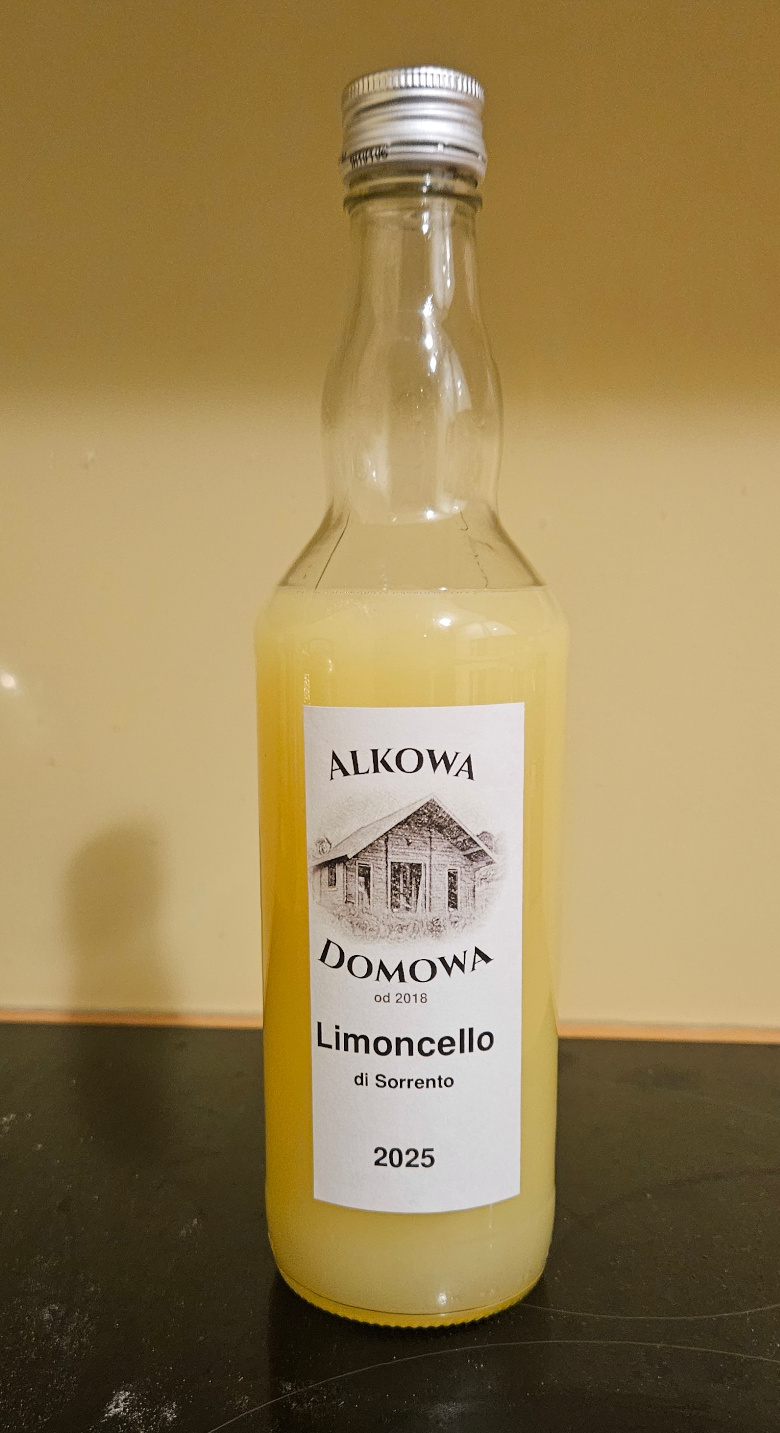
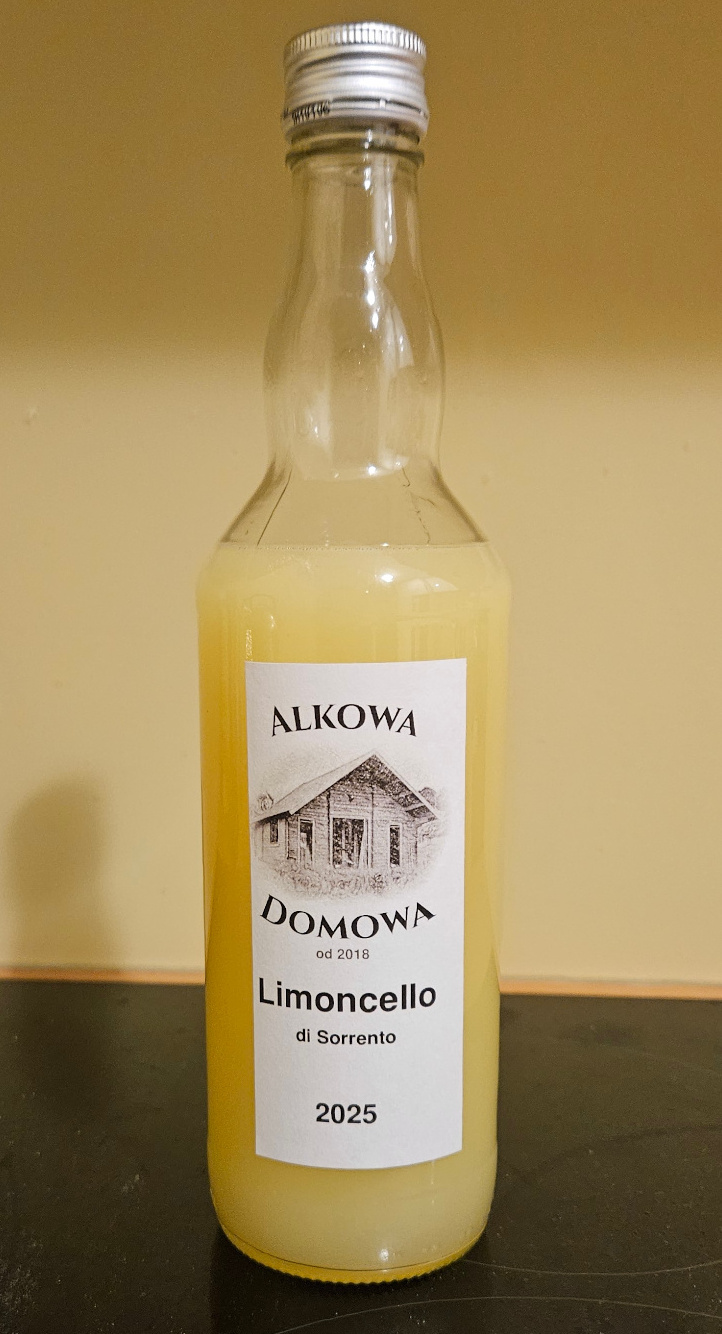
Complete post: Limoncello di Sorrento

diff --git a/content/36-limoncello-z-sorrento/limoncello.md b/content/36-limoncello-z-sorrento/limoncello.md
@@ -1,10 +1,9 @@
 Title: Limoncello z Sorrento
-Date: 2025-05-19 00:00:00
+Date: 2025-06-02 00:00:00
 Category: inne
 Tags: działka
-Summary: limoncello • włoskie limoncello • zdobywanie cytryn • Limoncello di Sorrento
-PreviewImage: limone-di-sorrento.jpg
-Status: draft
+Summary: limoncello • włoskie limoncello • poszukiwanie cytryn • Limoncello di Sorrento
+PreviewImage: butelka.jpg
 
 Miałem wcześniej napisać kilka innych artykułów, ale nastąpiły wydarzenia wymagające natychmiastowego opisania, a dotychczasowo priorytetowe artykuły z zimy powinienem spokojnie dokończyć do jesieni.
 
@@ -18,21 +17,19 @@ Cytryny zwykle były hiszpańskie, bo takie trafiały się w sklepie. Efekt był
 
 Skoro limoncello pochodzi z Włoch, to naturalne jest dla mnie, że w celu uzyskania najlepszego efektu powinienem użyć włoskich cytryn. Najlepsze byłyby z okolic Neapolu. Znane mi odmiany to Ovale di Sorrento oraz Sfusato Amalfitano. Chętnie bym je kupił, ale z moich doświadczeń wynika, że stan magazynowy w polskich sklepach z reguły wynosi zero. Raz udało mi się wypatrzyć cytryny z Amalfi na Allegro, ale byłem wtedy przytłoczony tłoczeniem innych owoców, więc odłożyłem decyzję o zakupie o dwa dni, w ciągu których zdążyły zniknąć z oferty.
 
-![cytryny-na-allegro.jpg]({attach}cytryny-na-allegro.jpg)
+![Oferta z Allegro]({attach}cytryny-na-allegro.jpg)
 
 Dlatego też w głowie mojej zakiełkowały rozwiązania alternatywne.
 
 # Po cytryny
 
-Dotychczasowe wieloletnie doświadczenie w chodzeniu po bułki postanowiłem przekuć na grunt cytrynowy. Jako że cytryny z reguły nie rosną w Polsce (w szczególności te włoskie), to konieczna okazała się wizyta w tym kraju. Kilka lat temu wybrałem się zatem do Włoch, a jednym z punktów był Neapol. Po wizycie w Pompejach postanowiłem pojechać dalej trasą kolejową na południe, by dotrzeć do Sorrento i tam mieć już pewność zakupienia miejscowych cytryn. Wsiadłem do pociągu, choć zaskoczyło mnie, że stacja końcowa nie nazywała się Sorrento, tylko Castelammare di Stabia. Zagadka po chwili się wyjaśniła, bo pociąg zatrzymał się na jednej z pośrednich stacji i usłyszałem komunikat, żeby wysiąść. Dalej nie pojechałem, a zamiast gajów cytrynowych mogłem przejść się po zaśmieconej plaży i spojrzeć w stronę gór, gdzie pozostawał nieosiągalny cel mojej podróży.
+Dotychczasowe wieloletnie doświadczenie w chodzeniu po bułki postanowiłem przekuć na grunt cytrynowy. Jako że cytryny z reguły nie rosną w Polsce (w szczególności te włoskie), to konieczna okazała się wizyta w tym kraju. Kilka lat temu wybrałem się zatem do Włoch, a jednym z punktów wycieczki był Neapol. Po wizycie w Pompejach postanowiłem pojechać dalej trasą kolejową na południe, by dotrzeć do Sorrento i tam mieć już pewność zakupienia miejscowych cytryn. Wsiadłem do pociągu, choć zaskoczyło mnie, że stacja końcowa nie nazywała się Sorrento, tylko Castelammare di Stabia. Zagadka po chwili się wyjaśniła, bo pociąg zatrzymał się na jednej z pośrednich stacji i usłyszałem komunikat, żeby wysiąść. Dalej nie pojechałem, a zamiast gajów cytrynowych mogłem przejść się po zaśmieconej plaży i spojrzeć w stronę gór, gdzie pozostawał nieosiągalny cel mojej podróży.
 
-castellammare
-
-Okazało się, że kilka dni wcześniej doszło do wykolejenia pociągu na trasie i usterka nie została jeszcze naprawiona. Do tego warto dodać brak komunikatów w języku innym niż włoski oraz trudności z powrotem do Neapolu. Stwierdziłem, że w kwestii dezorganizacji nawet PKP mogłaby się sporo nauczyć, ale poza tą wiedzą nic więcej, a w szczególności cytryn, nie uzyskałem. Pochodziłem sobie trochę po Neapolu i Rzymie, ale w sklepach czy na targach tych konkretnych cytryn nie znalazłem.
+Okazało się, że kilka dni wcześniej doszło do wykolejenia pociągu na trasie i usterka nie została jeszcze naprawiona. Do tego warto dodać brak komunikatów w języku innym niż włoski oraz trudności z powrotem do Neapolu. Stwierdziłem, że w kwestii dezorganizacji nawet PKP mogłaby się sporo nauczyć, ale, poza tą wiedzą, nic więcej, a w szczególności cytryn, nie uzyskałem. Pochodziłem sobie trochę po Neapolu i Rzymie, ale w sklepach czy na targach tych konkretnych cytryn nie znalazłem.
 
 # Podejście drugie
 
-Nie udało mi się zdobyć cytryn, na których najbardziej mi zależało, ale to nie znaczy, że całkiem zrezygnowałem. Gdy niecały rok później ponownie byłem we Włoszech, tym razem na Sycylii, poszedłem na targ i tam kupiłem cytryny, które według sprzedawcy najlepiej nadawały się do Limoncello. Jego zdaniem najlepiej nadawały się do wszystkiego, przez co miałem flashbacki z wizyt na Starym Kleparzu. Wszystkie bardziej zbędne (czyli prawie wszystkie) rzeczy w bagażu podręcznym zastąpiłem pięcioma kilogramami cytryn, przyleciałem z nimi do domu i przerobiłem na całkiem niezłe Limoncello. Nie było idealnie, ale zdecydowanie dobre.
+Nie udało mi się zdobyć cytryn, na których najbardziej mi zależało, ale to nie znaczy, że całkiem zrezygnowałem. Gdy niecały rok później ponownie byłem we Włoszech, tym razem na Sycylii, poszedłem na targ i tam kupiłem owoce, które według sprzedawcy najlepiej nadawały się do Limoncello. Jego zdaniem najlepiej nadawały się do wszystkiego, przez co miałem flashbacki z wizyt na Starym Kleparzu. Wszystkie bardziej zbędne (czyli prawie wszystkie) rzeczy w bagażu podręcznym zastąpiłem pięcioma kilogramami cytryn, przyleciałem z nimi do domu i przerobiłem na całkiem niezłe Limoncello. Nie było idealnie, ale zdecydowanie było dobre.
 
 Manewr powtórzyłem kilka miesięcy później na Sardynii. Tym razem wybrane cytryny okazały się trochę gorsze i mniej aromatyczne, ale darowanym owocom nie patrzy się w skórkę.
 
@@ -42,7 +39,7 @@ Okazjonalnie udawało mi się je znaleźć w zagranicznych sklepach, ale kosmicz
 
 # Cytryny z Sorrento
 
-W ostatnim sezonie robiłem niewiele nalewek, skupiając się raczej na winach, a od początku roku na piwach bezalkoholowych. Myśląc co ciekawego mógłbym jeszcze zrobić, przypomniał mi się mój __quest for Limoncello__ i postanowiłem sprawdzić, czy cytryny z dostawą są obecnie dostępne w rozsądnej cenie.
+W ostatnim sezonie robiłem niewiele nalewek, skupiając się raczej na winach, a od początku roku na piwach bezalkoholowych. Myśląc co ciekawego mógłbym jeszcze zrobić, przypomniał mi się mój **quest for Limoncello** i postanowiłem sprawdzić, czy cytryny z dostawą są obecnie dostępne w rozsądnej cenie.
 
 Były.
 
@@ -50,36 +47,41 @@ Cena co prawda rozsądna nie była, ale w tak wyszukany sposób przekraczała pr
 
 Co to były za cytryny? Nie były to co prawda Ovale di Sorrento, ale prawie każda z nich miała na sobie nalepkę "Limone di Sorrento IGP", czyli Cytryny z Sorrento Chronione Oznaczenie Geograficzne. Nie byłem pewien czy jest to nazwa odmiany, czy tylko gwarancja miejsca pochodzenia. Zgodnie z tym, co wyczytałem, jest to tamtejsza odmiana wywodząca się z cytryn Ovale. Czyli całkiem dobrze.
 
-![limone-di-sorrento.jpg](limone-di-sorrento.jpg)
+![Nareszcie cytryny z Sorrento]({attach}limone-di-sorrento.jpg)
+
+Rozmiar takiej cytryny był większy niż przeciętny, bo ważyły po około 200 gramów. Żółta warstwa skórki też była grubsza niż przeciętnie, ale spodziewałem się większej różnicy.
 
 # Krojenie
 
-Potencjalnie najlepsze cytryny zasługują na potencjalnie najlepsze traktowanie, dlatego postanowiłem skórkować je nożem i obieraczką ceramicznymi. Nie wiem, czy to prawda, że są lepsze, ale używając ich niczym nie ryzykuję. Robota tak paliła mi się w rękach, że w toku prac obieraczka się rozleciała, ale nie powstrzymało mnie to przed dokończeniem zadania. Obecnie stosowana przeze mnie technika przy krojeniu jest następująca:
+W Limoncello wykorzystywana jest tylko żółta część skórki, a biała, zawierająca gorycz, jest zbędna. Potencjalnie najlepsze cytryny zasługują na potencjalnie najlepsze traktowanie, dlatego postanowiłem skórkować je nożem i obieraczką ceramicznymi. Nie wiem, czy to prawda, że są lepsze, ale używając ich niczym nie ryzykuję. Robota tak paliła mi się w rękach, że w toku prac obieraczka się rozleciała, ale nie powstrzymało mnie to przed dokończeniem zadania. Obecnie stosowana przeze mnie technika przy krojeniu jest następująca:
 
 1. Obcinam końce cytryny, bo z nich i tak nie obiorę skórki
 2. Obieraczką obieram jak najdłuższe paski/wstążki
 3. kładę na drewnianej desce białym do góry i filetuję nożem
 
-Sposób zbliżony do tego, czego nauczyłem się przy dekorowaniu drinków. Pozwala to sprawnie usunąć całość białego albedo.
+Sposób zbliżony do tego, czego nauczyłem się przy krojeniu skórek owoców do dekorowania drinków. Pozwala to sprawnie usunąć całość białego albedo.
 
-![Filetowanie skórek](filetowanie.jpg)
+![Filetowanie skórek]({attach}filetowanie.jpg)
 
-![I jego efekt](efekt-filetowania.jpg)
+![I jego efekt]({attach}efekt-filetowania.jpg)
 
-Gdy robota była skończona, skórki wrzuciłem do dwóch słojów i odstawiłem na dwa tygodnie w ciemne miejsce. Już w przypadku cytryn z Sardynii eksperymentowałem z długością moczenia skórek w spirytusie. Słyszałem, że krótko moczone są bardziej delikatne, ale dane doświadczalne nie potwierdziły w moim przypadku tej hipotezy. Zarówno skórki moczone jedną, trzy i siedem dób były porównywalne, więc nie kombinowałem i postanowiłem dokonywać ekstrakcji olejków cytrynowych przez dwa tygodnie według poniższego przepisu:
+Gdy robota była skończona, skórki wrzuciłem do dwóch słojów i odstawiłem w ciemne miejsce.
+
+Już w przypadku cytryn z Sardynii eksperymentowałem z długością moczenia skórek w spirytusie. Słyszałem, że krótko moczone są bardziej delikatne, ale dane doświadczalne nie potwierdziły w moim przypadku tej hipotezy. Zarówno skórki moczone jedną, trzy i siedem dób były porównywalne, więc nie kombinowałem i postanowiłem dokonywać ekstrakcji olejków cytrynowych przez dwa tygodnie według poniższego przepisu:
 
 1. Umieść skórki w słoju ze spirytusem
 2. Nic nie rób
 
 # Ciąg dalszy
 
-Po rzeczonych dwóch tygodniach przelałem nalew do innego słoja, a skórki zalałem jeszcze na kilka godzin wodą, żeby wyciągnąć wszystko, co pozostało. Resztę wody z przepisu podgrzałem z cukrem i wlałem do spirytusu. Wodę ze skórek, która miała w sobie całkiem sporo aromatu cytrynowego połączyłem z resztą po kilku godzinach. Ogólnie dałem około połowę cukru przewidzianego w innych przepisach, ale zawsze tak robię, bo łatwiej dosłodzić niż odsłodzić.
+Po rzeczonych dwóch tygodniach przelałem nalew do innego słoja, a skórki zalałem jeszcze na kilka godzin wodą, żeby wyciągnąć wszystko, co pozostało. Resztę wody z przepisu podgrzałem z cukrem i po schłodzeniu wlałem do spirytusu. Wodę ze skórek, która miała w sobie całkiem sporo aromatu cytrynowego, połączyłem z resztą po kilku godzinach. Ogólnie dałem około połowę cukru przewidzianego w innych przepisach, ale zawsze tak robię, bo łatwiej dosłodzić niż odsłodzić.
 
 Ta wersja okazała się niepijalna, więc dodałem jeszcze ćwiartkę ilości cukru z przepisu (żeby uzyskać 3/4 wartości referencyjnej) i zabutelkowałem. Tym razem wyszło jak należy.
 
 # Podsumowanie
 
-![butelka.jpg](butelka.jpg)
+![Butelka Limoncello]({attach}butelka.jpg)
 
-Napiszę, gdy skończę.
+Jak smakuje po miesiącu, dobrze schłodzone? __Bardzo dobrze__, choć nie czuję, aby różnica jakości rekompensowała cały wysiłek włożony w jego wykonanie. Jest delikatne i lekko słodkie. Uważam, że warto było zrobić to raz, ale w przyszłości zapewne zdecyduję się wybrać łatwo dostępne cytryny bio ze sklepu.
 
+Nadmienię jeszcze, że wykorzystanie cytryn z Sorrento zapewne nie uprawniałoby mnie do napisania na butelce „Limoncello di Sorrento”, bo zwykle taka nazwa oznacza, że produkt został w całości wykonany w danym miejscu. No ale robię dla siebie, więc nie muszę się przejmować.
